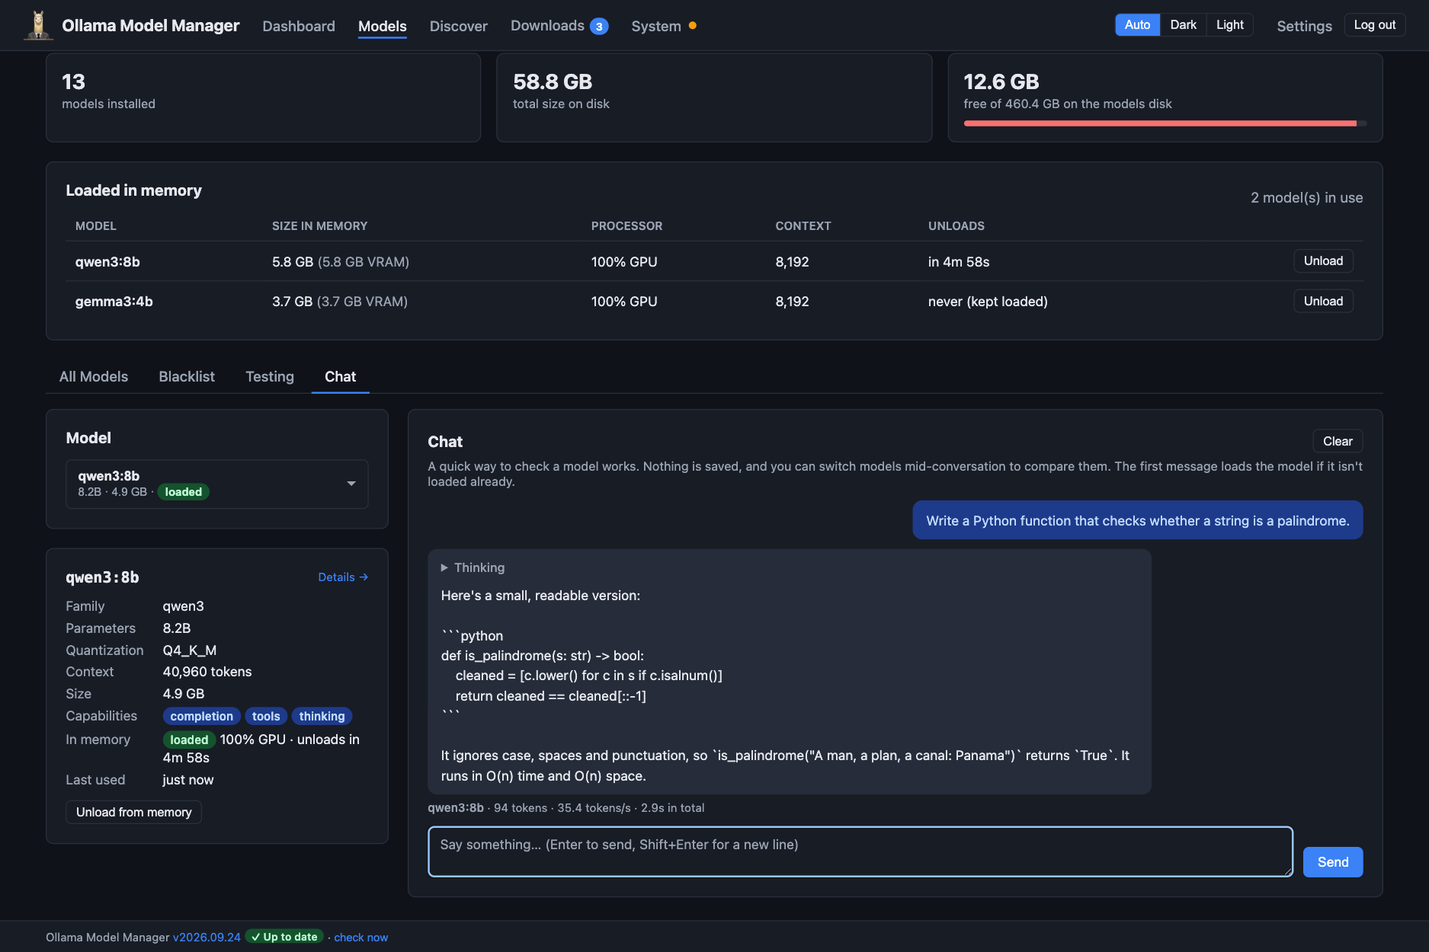
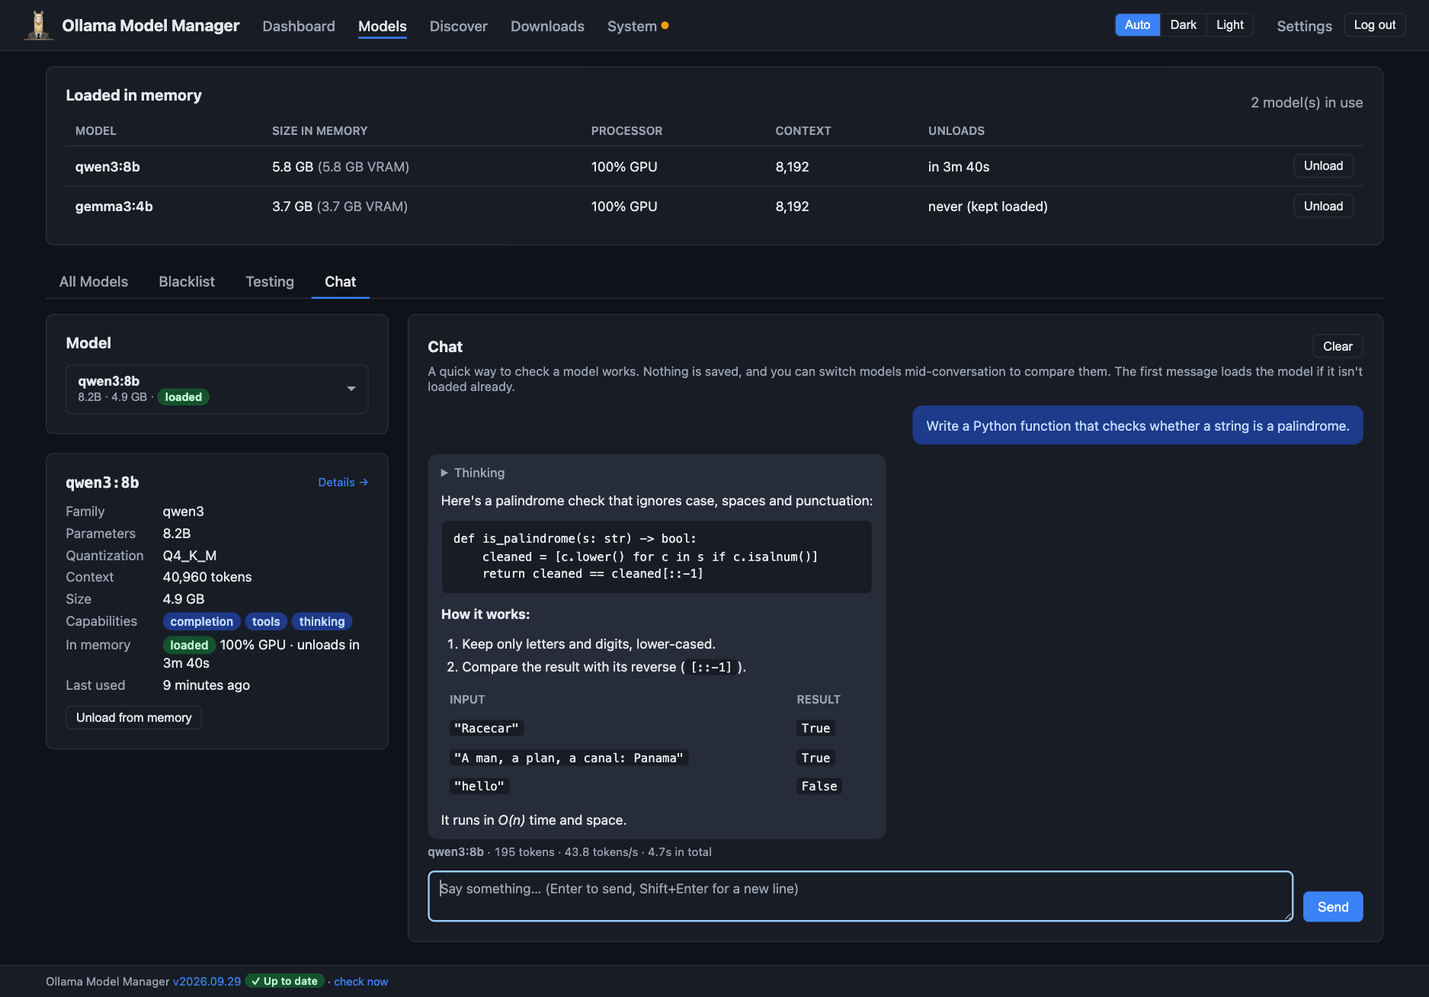
Enhance documentation and UI for model management, including disk space reclamation features and bulk deletion options

diff --git a/internal/web/static/models.js b/internal/web/static/models.js
@@ -96,30 +96,36 @@
   }
   unloadForm.addEventListener("submit", function () { fill(unloadForm); });
 
-  if (deleteBtn) {
+  // Opens the Delete dialog for names: the selection, or a model's tags (the
+  // duplicates panel's Delete, for a model listed under more than one).
+  function openBulkDelete(names) {
     var dialog = document.getElementById("bulk-delete-modal");
     var body = document.getElementById("bulk-delete-body");
-    deleteBtn.addEventListener("click", function () {
-      var q = new URLSearchParams();
-      selected.forEach(function (n) { q.append("name", n); });
-      q.set("return", location.pathname + location.search);
-      body.innerHTML = '<p class="muted">Loading…</p>';
-      dialog.showModal();
-      fetch("/models/bulk/confirm?" + q.toString(), { credentials: "same-origin" }).then(function (resp) {
-        if (resp.status === 401) { location.reload(); throw new Error("signed out"); }
-        return resp.text();
-      }).then(function (html) {
-        body.innerHTML = html; // our own server-rendered markup
-      }).catch(function (err) {
-        if (err.message === "signed out") return;
-        body.innerHTML = "";
-        var p = document.createElement("p");
-        p.className = "error-box";
-        p.textContent = "Couldn't reach the server: " + err.message;
-        body.appendChild(p);
-      });
+    if (!dialog) return;
+    var q = new URLSearchParams();
+    names.forEach(function (n) { q.append("name", n); });
+    q.set("return", location.pathname + location.search);
+    body.innerHTML = '<p class="muted">Loading…</p>';
+    dialog.showModal();
+    fetch("/models/bulk/confirm?" + q.toString(), { credentials: "same-origin" }).then(function (resp) {
+      if (resp.status === 401) { location.reload(); throw new Error("signed out"); }
+      return resp.text();
+    }).then(function (html) {
+      body.innerHTML = html; // our own server-rendered markup
+    }).catch(function (err) {
+      if (err.message === "signed out") return;
+      body.innerHTML = "";
+      var p = document.createElement("p");
+      p.className = "error-box";
+      p.textContent = "Couldn't reach the server: " + err.message;
+      body.appendChild(p);
     });
   }
+  if (deleteBtn) deleteBtn.addEventListener("click", function () { openBulkDelete(Array.from(selected)); });
+  document.addEventListener("click", function (e) {
+    var b = e.target.closest("[data-delete-names]");
+    if (b) openBulkDelete(JSON.parse(b.dataset.deleteNames));
+  });
 
   document.body.addEventListener("htmx:afterSwap", render);
   render();

diff --git a/internal/web/templates/models.html b/internal/web/templates/models.html
@@ -112,8 +112,11 @@
           <td>{{if .Usage.ActiveSeconds}}{{activefor .Usage.ActiveSeconds}}{{else}}<span class="muted">—</span>{{end}}</td>
           <td class="actions">
             <a class="btn secondary small" href="/models/{{.Name}}">View</a>
-            {{if $.AllowDelete}}<button type="button" class="danger small" data-dialog-open="delete-model-modal"
-              data-fill-name="{{.Name}}" data-fill-effect="{{$.Storage.DeleteEffect .Name}}" data-fill-return="{{$.ListURL}}">Delete</button>{{end}}
+            {{if $.AllowDelete}}{{if .Also}}
+            {{/* Its other tags too: deleting one tag of a model frees nothing (static/models.js). */}}
+            <button type="button" class="danger small" data-delete-names="{{json .Tags}}">Delete</button>
+            {{else}}<button type="button" class="danger small" data-dialog-open="delete-model-modal"
+              data-fill-name="{{.Name}}" data-fill-effect="{{$.Storage.DeleteEffect .Name}}" data-fill-return="{{$.ListURL}}">Delete</button>{{end}}{{end}}
           </td>
         </tr>
       {{end}}

diff --git a/cmd/ollama-model-manager/main.go b/cmd/ollama-model-manager/main.go
@@ -322,7 +322,7 @@ func describeEnv(port, ollamaURL, dbPath, modelsDir string, allowDelete, hasHFTo
 		{Name: "PORT", Value: port, Source: envSource("PORT"), About: "Port the web UI listens on"},
 		{Name: "OLLAMA_HOST", Value: ollamaURL, Source: envSource("OLLAMA_HOST"), About: "The Ollama server being managed"},
 		{Name: "DB_PATH", Value: dbPath, Source: envSource("DB_PATH"), About: "This app's database: accounts and download history"},
-		{Name: "MODELS_DIR", Value: modelsDir, Source: modelsSource, About: "Ollama's models folder, for the free disk space tile"},
+		{Name: "MODELS_DIR", Value: modelsDir, Source: modelsSource, About: "Ollama's models folder, for the free disk space tile and exact storage figures"},
 		{Name: "OLLAMA_MODELS", Value: os.Getenv("OLLAMA_MODELS"), Source: optionalSource("OLLAMA_MODELS"), About: "Ollama's own models folder setting; checked when finding MODELS_DIR"},
 		{Name: "ALLOW_MODEL_DELETE", Value: fmt.Sprint(allowDelete), Source: deleteSource, About: "Whether models can be deleted from this app"},
 		{Name: "HF_TOKEN", Value: hfToken, Source: optionalSource("HF_TOKEN"), About: "Hugging Face read token, for browsing private repos", Secret: true},

diff --git a/internal/web/dupes.go b/internal/web/dupes.go
@@ -20,9 +20,10 @@ import (
 type quantEntry struct {
 	ollama.Model
 	Also     []string // other tags of the same model (same digest)
+	Tags     []string // all of its tags: deleting it deletes them all, to free the space shown
 	LastUsed *time.Time
 	Usage    store.ModelTotal // under any of its tags
-	Frees    int64            // deleting it alone
+	Frees    int64            // deleting it (all its tags)
 }
 
 // quantGroup is a model installed in several quantisations.
@@ -62,8 +63,10 @@ func duplicateQuants(all []ollama.Model, u usageFacts, totals map[string]store.M
 			groups[key] = g
 			order = append(order, key)
 		}
-		e := quantEntry{Model: m, Also: st.SameAs(m.Name), Frees: st.Freed(append([]string{m.Name}, st.SameAs(m.Name)...)...)}
-		for _, tag := range append([]string{m.Name}, e.Also...) {
+		e := quantEntry{Model: m, Also: st.SameAs(m.Name)}
+		e.Tags = append([]string{m.Name}, e.Also...)
+		e.Frees = st.Freed(e.Tags...)
+		for _, tag := range e.Tags {
 			if t, ok := u.LastUsed[tag]; ok && (e.LastUsed == nil || t.After(*e.LastUsed)) {
 				e.LastUsed = &t
 			}

diff --git a/internal/web/bulk_test.go b/internal/web/bulk_test.go
@@ -60,6 +60,8 @@ func TestDuplicateQuants(t *testing.T) {
 		// The same model under two tags is one entry, with its use under either.
 		`also qwen3:latest`, `<span title="`, "2 hours ago", `<td class="tnum">4</td>`, "≈ 10 min",
 		`data-fill-name="qwen3:8b-q8_0"`, "Q8_0",
+		// Deleting it deletes both its tags, freeing the space shown.
+		`data-delete-names="[&#34;qwen3:8b&#34;,&#34;qwen3:latest&#34;]"`,
 		`href="/models/testing?model=qwen3%3A8b&amp;model=qwen3%3A8b-q8_0&amp;name=Compare&#43;qwen3&#43;8.2B&#43;quantisations"`,
 		// And flagged in the table.
 		`title="Also installed as qwen3:8b-q8_0 (Q8_0)">+1 quant</a>`,

diff --git a/README.md b/README.md
@@ -10,7 +10,7 @@
   ones that weren't worth keeping.
 </p>
 
-![The dashboard: library totals, free disk space, live system load, the models loaded in memory, and the most recently used models](docs/images/dashboard.png)
+![The dashboard: library totals, free disk space running low, live system load, the models loaded in memory, four models unused for 60+ days, and the most recently used models](docs/images/dashboard.png)
 
 ## What it adds to Ollama
 
@@ -23,6 +23,7 @@ Manager fills in the rest:
 | **Finding models** | Browse ollama.com or Hugging Face yourself, and guess what will fit | Search both from the app, with every size and quantisation checked against your memory and GPU |
 | **Downloading** | `ollama pull`, one at a time, with the terminal kept open | A queue that runs in the background, carries on after a restart, and explains failures |
 | **Knowing what you use** | When a model was downloaded | When it was last used, how often it's loaded, and how long it's in use each day |
+| **Disk space** | `ollama list` sizes, which count files shared between models again for each | The real space used, exactly what a delete frees, the models you haven't used in months, and the ones you have in two quantisations, cleared out in one go |
 | **Comparing models** | Try each one by hand and eyeball it | Tests: one prompt, many models, many runs, with speed and replies side by side |
 | **Remembering what didn't work** | Nothing | A blacklist that keeps why you deleted a model, and warns you before you download it again |
 | **Staying up to date** | Check the releases yourself | An orange dot when Ollama has an update, with how to install it |
@@ -35,27 +36,30 @@ loaded in memory (and how much of it is on the GPU), and the models you've used 
 everything installed, with its family, size, quantisation, context length, capabilities, when it was last used and how
 many times it's been loaded. Filter and sort by any of them, and click a name to copy it.
 
-![The Models page: every installed model, sorted by when it was last used, with how often each has been loaded](docs/images/models.png)
+![The Models page: every installed model, sorted by when it was last used, with selection boxes, and badges for models with another name or another quantisation installed](docs/images/models.png)
 
 Each model's menu loads or unloads it (choosing how long it stays loaded), opens a chat, shows its **other quants** to
-download, links to it on ollama.com or Hugging Face, or deletes it. Tick several models to unload or delete them at once
-(optionally adding them to the blacklist as they go).
-
-Storage figures count each file once: `llama3.2:latest` and `llama3.2:3b` are the same model, and a variant made from
-another model shares its weights, so neither is counted twice, and deleting a model says exactly how much space it frees
-(this needs Ollama's models folder visible to the app; see `MODELS_DIR`). The free-space tile turns amber, then red, as
-the disk fills.
+download, links to it on ollama.com or Hugging Face, or deletes it. Tick several to unload or delete them at once.
 
 ### Usage history
 Ollama keeps no record of what you use. This app checks every 15 seconds and records when each model was last used, each
-time it's loaded, and roughly how long it's in use each day, so you can see which models earn their disk space. The dashboard says how many models have gone unused for 60 days and
-the space they take, and the Models page filters to models unused for 30, 60 or 90 days, to review and delete. A model
-installed in more than one quantisation is flagged, with each one's use side by side and a link to a test comparing
-them. Each
+time it's loaded, and roughly how long it's in use each day, so you can see which models earn their disk space. Each
 model's page has a 30-day chart alongside everything Ollama knows about it: architecture, parameters, template and
 Modelfile.
 
 ![A model's page: its details, and a usage chart of time in use per day over the last 30 days](docs/images/model-detail.png)
+
+### Reclaiming disk space
+Sizes count each file once: `llama3.2:latest` and `llama3.2:3b` are one model, a variant made from another shares its
+weights, and deleting a model says exactly how much it frees. The dashboard tells you when models have gone 60 days
+unused, and the Models page filters to them (30, 60 or 90 days) to delete them in one go, adding them to the blacklist
+if you like. Models installed in more than one quantisation are set side by side with how much you use each, and a link
+to test them against each other. The free space tile turns amber, then red, as the disk fills, and downloads check
+there's room for everything queued ahead of them.
+
+![The Models page filtered to models not used in 60+ days, all four selected, with the bar to unload or delete them](docs/images/models-unused.png)
+
+**[Reclaiming disk space →](docs/disk-space.md)**
 
 ### Discover and download models
 Search the [Ollama library](https://ollama.com/search) and GGUF models on
@@ -74,7 +78,7 @@ and load time, plus every reply to read side by side. Tests run in the backgroun
 when it's done so the next gets the GPU to itself. Save a prompt, models and runs as a **template** to run the same
 comparison again later.
 
-![A test's results: a comparison table of four models' speed and times, and each run's reply](docs/images/test-results.png)
+![A test's results: a comparison table of four models' speed and times (two of them quantisations of qwen3:8b), and the first run's reply, with its code, list and table](docs/images/test-results.png)
 
 **[Model testing →](docs/testing.md)**
 
@@ -92,7 +96,7 @@ A quick way to check a model works: chat with any installed model, switch models
 see tokens, tokens per second and response time for each reply. Replies (here and in test results) are shown as
 Markdown: lists, tables and code blocks. Nothing is saved.
 
-![Chat: a reply from qwen3:8b, with its thinking folded away and its speed underneath](docs/images/chat.png)
+![Chat: a reply from qwen3:8b with a code block, a numbered list and a table, its thinking folded away and its speed underneath](docs/images/chat.png)
 
 ### System monitoring and updates
 Live graphs of CPU, memory, GPU and VRAM use, each GPU's memory and utilisation, what's loaded, and how many models you
@@ -222,7 +226,7 @@ Everything is set with environment variables:
 | `PORT` | `8080` | Port the web UI listens on |
 | `OLLAMA_HOST` | `http://localhost:11434` | The Ollama server to manage |
 | `DB_PATH` | `omm.db` beside the binary (`/data/omm.db` in Docker) | Where the database is kept: accounts, downloads, usage history, tests and the blacklist |
-| `MODELS_DIR` | auto-detected | Ollama's models folder, for the free disk space tile. Found automatically in the usual places and at `/models` |
+| `MODELS_DIR` | auto-detected | Ollama's models folder, for the free disk space tile and exact storage figures (see [Disk space](docs/disk-space.md#how-much-space-your-models-take)). Found automatically in the usual places and at `/models` |
 | `ALLOW_MODEL_DELETE` | `true` | `false` hides the Delete buttons and refuses deletions |
 | `HF_TOKEN` | not set | Optional Hugging Face read token, for browsing private repos (see [the guide](docs/discovery.md#gated-and-private-hugging-face-models)) |
 | `TZ` | the system's (UTC in Docker) | Time zone for the times shown and usage history's days, e.g. `Europe/London` |

diff --git a/docs/disk-space.md b/docs/disk-space.md
@@ -1,0 +1,95 @@
+# Disk space
+
+[← Back to the README](../README.md)
+
+Models are big, and they pile up: a quantisation tried for a test, a model downloaded for one job, a second copy under
+another name. Ollama Model Manager shows how much space your models really take, which ones you've stopped using, and
+which you have in more than one quantisation, and lets you clear them out in one go.
+
+- [How much space your models take](#how-much-space-your-models-take)
+- [Models you don't use](#models-you-dont-use)
+- [Models in more than one quantisation](#models-in-more-than-one-quantisation)
+- [Deleting several models at once](#deleting-several-models-at-once)
+- [Running low](#running-low)
+
+## How much space your models take
+
+Ollama stores each file a model is made of (its weights, template, licence and parameters) once, however many models
+use it. Adding up the sizes `ollama list` shows counts those files again for every name they appear under, so this app
+works the figures out from the files themselves:
+
+- **Tags of the same model count once.** `llama3.2:latest` and `llama3.2:3b` are the same download under two names, so
+  they're one model, not two. The dashboard says *16 models installed (18 tags)* when some models have more than one
+  name, and the Models page marks each with a grey badge naming its other tag, such as **= llama3.2:3b**.
+- **Shared files count once.** A variant made from another model (`llama3.2-32k`, say, with a longer context) keeps the
+  original's weights, so its size on disk is only what's different.
+- **Deleting says exactly what it frees.** The delete dialogs say how much space deleting a model frees: only the files
+  no other model uses. Deleting one name of a model that has another frees nothing, and the dialog says so.
+
+![The Models page: the filters, the duplicate quantisations note, and the list with selection boxes and badges for other tags and quantisations](images/models.png)
+
+This needs this app to see Ollama's models folder (`MODELS_DIR`; it's found automatically in the usual places, and at
+`/models` in Docker). Without it, tags of the same model are still counted once, but files shared between different
+models can't be seen, so totals may be a little high and the delete dialogs say "freeing *up to*". The ⓘ beside the
+total says which applies.
+
+## Models you don't use
+
+The app records when each model is used (see [Usage history](../README.md#usage-history)), so it can tell which ones
+haven't been. When any models have gone 60 days without being used, the dashboard says how many, and how much space
+deleting them would free.
+
+**Review** opens the Models page filtered to them. The **Last used** filter there offers *not in 30+*, *60+* and *90+
+days*; with one chosen, the list says how much deleting them all would free, and **select all** ticks them, ready to
+[delete](#deleting-several-models-at-once).
+
+![The Models page filtered to models not used in 60+ days, all four selected, with the bar to unload or delete them](images/models-unused.png)
+
+A model counts as unused when none of these is within the period:
+
+- its last use, under any of its names,
+- when it was downloaded, so a model you've only just pulled isn't on the list,
+- when this app started recording usage. Usage is only seen while the app is running, so a new install doesn't call
+  anything unused until it's been watching for that long. The list says when recording began.
+
+## Models in more than one quantisation
+
+Comparing quantisations (Q4_K_M against Q8_0, say) is a good way to choose, but afterwards it's easy to keep both. When
+you have a model in more than one quantisation, the Models page says so above the list, and each one has an orange
+**+1 quant** badge. Open the note to see them side by side:
+
+![Two models installed in more than one quantisation: each with its size, the space deleting it frees, when it was last used, how often it's been loaded and how long it's been in use](images/models-quants.png)
+
+- **Deleting frees**: the space you'd get back.
+- **Last used**, **Loads** and **In use**: how much you actually use each one, counting all its names.
+- **Compare in a test**: opens a [test](testing.md) with them all ticked, to see what the bigger one buys you before
+  choosing.
+- **Delete**: deletes that one. If it's listed under more than one name (`qwen3:8b`, also `qwen3:latest`), all of them
+  are deleted, since deleting just one name would free nothing.
+
+Models count as the same when they come from the same place (`qwen3`, or the same Hugging Face repo) with the same
+parameter count, in different quantisations.
+
+## Deleting several models at once
+
+Tick models on the Models page (or tick the box in the header for the whole page) and a bar appears at the bottom:
+
+- **Select all *N* matching** (when the list runs to more than one page) ticks every model the current filter
+  matches, on every page.
+- **Unload** unloads whichever of them are loaded in memory.
+- **Delete…** lists them, with how much space deleting them frees, and asks first. Tick **Also add them to the
+  blacklist** to [blacklist](blacklist.md) them as they go, with one reason for them all.
+
+![The Delete dialog for four unused models: each with its size, the 19.3 GB freed, and "Also add them to the blacklist" ticked with a reason](images/bulk-delete.png)
+
+The selection is kept as you sort, filter and page through the list. If any can't be deleted, the others still are, and
+the page says which failed and why.
+
+## Running low
+
+The free space tile on the dashboard and Models page (and the bar on the System page) turns **amber** when the disk Ollama uses is running low
+(under 50 GB or 15% free) and **red** when it's nearly full (under 10 GB or 5%).
+
+Downloads check the space before they're queued, counting what the downloads already queued will take: with 50 GB free
+and two 20 GB downloads queued, a third is flagged, rather than failing when the disk fills partway through. You're
+asked whether to queue it anyway (see [the download queue](discovery.md#the-download-queue)).

diff --git a/docs/testing.md b/docs/testing.md
@@ -26,6 +26,10 @@ The **New test** form has:
   and the next.
 - **Name**: optional. Without one, the test is named after the first line of the prompt.
 
+**Compare in a test** on the Models page (for a model you have in more than one quantisation; see
+[Disk space](disk-space.md#models-in-more-than-one-quantisation)) opens the form with those models ticked and the test
+named, ready for a prompt.
+
 The **Summary** beside the form shows what you're about to queue: models × runs, an estimate of how long it'll take
 (from how long those models took in earlier tests), the total size of the models, and a warning for any that won't fit
 in VRAM. **Queue test** stays disabled until you've picked a model and written a prompt; hover over it to see what's
@@ -60,7 +64,7 @@ The **Testing** tab shows how many tests are queued or running, and the Tests li
 
 ## Reading the results
 
-![A finished test: the comparison table, and the first run's reply](images/test-results.png)
+![A finished test: the comparison table of four models, and the first run's reply, with its code, list and table laid out](images/test-results.png)
 
 A test's page has:
 
@@ -70,7 +74,8 @@ A test's page has:
   - **Time**: the whole request, from sending the prompt to the last token.
   - **Load**: the longest load time of its runs, usually the first, when Ollama loaded it into memory.
 - **Each run**, per model: open one to read its reply (and its thinking, for thinking models), with its token count,
-  speed and time, or the error if it failed.
+  speed and time, or the error if it failed. Replies are shown as Markdown, as the chat shows them: code blocks, lists
+  and tables are laid out, and any HTML in a reply is shown as text.
 
 The page refreshes itself while the test runs. **Run again** queues a copy of the test, and **Delete** removes it and its
 results (the models aren't affected).
@@ -80,7 +85,8 @@ results (the models aren't affected).
 - **Use several runs.** Replies vary from run to run. Three to five runs per model give a fairer average than one.
 - **Compare quantisations of one model.** Use [Other quants](discovery.md#other-quants-of-a-model-you-have) to download
   a Q4 and a Q8 of the same model, then test both with the same prompt: you'll see what the extra size buys in quality,
-  and what it costs in speed.
+  and what it costs in speed. Then delete the one you don't need: the Models page lists models you have in more than
+  one quantisation, with how much you use each ([Disk space](disk-space.md#models-in-more-than-one-quantisation)).
 - **Mind the first run.** Its time includes loading the model. Tokens/s isn't affected, but Time is.
 - **Close other heavy work.** Other models loaded in memory, or a download in progress, share the machine and can slow a
   test down.

diff --git a/docs/discovery.md b/docs/discovery.md
@@ -25,6 +25,11 @@ match. Tags you already have are marked **Installed**, ones in the queue show th
 
 ![A gemma3 result with its tags open: sizes, context, fit, and which are installed](images/discover.png)
 
+ollama.com has no API for this, so the app reads its web pages. If ollama.com changes its layout in a way the app can't
+read, Discover says *couldn't read ollama.com (its layout may have changed)* rather than showing no results, and an
+update to this app will be needed. Hugging Face searches, and downloading by name from the Downloads page, still work
+meanwhile.
+
 The filters above the results:
 
 - **Has**: only models with every capability ticked. *cloud* shows ollama.com's cloud models, which don't run locally.
@@ -72,7 +77,8 @@ an ollama.com or huggingface.co link.
 
 - **Checked first.** Each name is checked with its registry before it's queued, so a typo fails straight away. If a
   model looks too big for your disk or memory, or it's on your [blacklist](blacklist.md), you're asked before it's
-  queued.
+  queued. The disk check counts what's already queued: with 50 GB free and two 20 GB downloads ahead of it, a third
+  is flagged then, rather than failing when the disk fills.
 - **One at a time, in the background.** Downloads carry on when you close the browser, with live progress, speed and
   ETA, and a count on the nav. If this app restarts, an interrupted download picks up where it left off.
 - **Failures explained.** A failed download keeps its log, and suggests what to do for the common causes: a model or tag

diff --git a/docs/blacklist.md b/docs/blacklist.md
@@ -30,6 +30,10 @@ What's recorded:
 
 If the model can't be deleted, it isn't blacklisted either. Blacklisting the same model again replaces its entry.
 
+To clear out several at once, tick them on the Models page and choose **Delete…**: the dialog has the same **Also add
+them to the blacklist**, with one reason for them all (see
+[Deleting several models at once](disk-space.md#deleting-several-models-at-once)).
+
 ## The Blacklist tab
 
 **Models → Blacklist** lists every entry, newest first, with the reason and the details kept.
